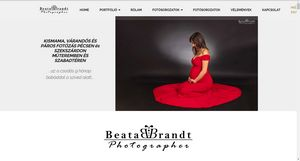
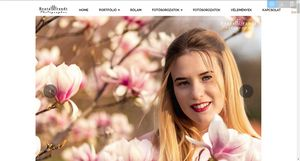
PS commit

diff --git a/index.html b/index.html
@@ -97,7 +97,7 @@ src="https://www.facebook.com/tr?id=3312447675697759&ev=PageView&noscript=1"
 
 </section>
 
-<section class="engine"><a href="https://mobirise.info/d">free web maker</a></section><section class="mbr-slider mbr-section mbr-section__container carousel slide mbr-section-nopadding mbr-after-navbar" data-ride="carousel" data-keyboard="false" data-wrap="true" data-pause="false" data-interval="5000" id="slider-5" data-rv-view="2" style="background-color: rgb(255, 255, 255);">
+<section class="engine"><a href="https://mobirise.info/s">bootstrap themes</a></section><section class="mbr-slider mbr-section mbr-section__container carousel slide mbr-section-nopadding mbr-after-navbar" data-ride="carousel" data-keyboard="false" data-wrap="true" data-pause="false" data-interval="5000" id="slider-5" data-rv-view="2" style="background-color: rgb(255, 255, 255);">
     <div class=" container boxed-slider" style="padding-top: 80px; padding-bottom: 0px;">
         <div>
             <div>
@@ -764,12 +764,12 @@ src="https://www.facebook.com/tr?id=3312447675697759&ev=PageView&noscript=1"
         <div class="mbr-cards-col col-xs-12 col-lg-4" style="padding-top: 80px; padding-bottom: 80px;">
             <div class="container">
               <div class="card cart-block">
-                  <div class="card-img"><img src="assets/images/g85a9197-husveti-anyaknapi-fotozas-pecs-motherday-photo-1.jpg" class="card-img-top"></div>
+                  <div class="card-img"><img src="assets/images/6384-karacsonyi-fotozas-pecs-christmas-photography.jpg" class="card-img-top"></div>
                   <div class="card-block">
-                    <h4 class="card-title">Húsvéti, anyáknapi fotózás</h4>
+                    <h4 class="card-title">Karácsonyi fotózás</h4>
                     
                     
-                    <div class="card-btn"><a href="husveti_csalad_gyermek_fotozas_pecs.html" class="btn btn-primary">TOVÁBBI KÉPEIM</a></div>
+                    <div class="card-btn"><a href="karacsonyi_fotozas_pecs.html" class="btn btn-primary">TOVÁBBI KÉPEIM</a></div>
                     </div>
                 </div>
             </div>
@@ -968,7 +968,7 @@ src="https://www.facebook.com/tr?id=3312447675697759&ev=PageView&noscript=1"
 
                     <form action="" method="post" data-form-title="KAPCSOLAT">
 
[1 lines of base64/hex data omitted]
+                        <input type="hidden" value="OQYVztaAK14U0MOC+8CbpONklzauN5I0RbxQmgSHQcnbIVXILR8x1TA1HxwYuNfD/lGdOqfITTclu/3EnHmntw9nufJgSYvFdgiKo4aqgAPFRCI0CoMmY+0YomhKZSsG.eiRMtiKyZkoe3zhZsqWuhv7BsPhjJm5EoCq20GLDc1EgIskMJkRZFyMfpHc9LsJSWh3HKrOMKglUyzh27UE4DnMMmQDX8+FTwwmV9c8uaaUSxsltkeWVOM32YMHQbjvk" data-form-email="true">
 
                         <div class="row row-sm-offset">
 

diff --git a/kapcsolat.html b/kapcsolat.html
@@ -92,7 +92,7 @@ src="https://www.facebook.com/tr?id=3312447675697759&ev=PageView&noscript=1"
 
 </section>
 
-<section class="engine"><a href="https://mobirise.info/y">free html website templates</a></section><section class="mbr-section form1 mbr-parallax-background mbr-after-navbar" id="form1-1x" data-rv-view="742" style="background-image: url(assets/images/mbr-1920x1318.jpg); padding-top: 120px; padding-bottom: 120px;">
+<section class="engine"><a href="https://mobirise.info/r">free bootstrap template</a></section><section class="mbr-section form1 mbr-parallax-background mbr-after-navbar" id="form1-1x" data-rv-view="742" style="background-image: url(assets/images/mbr-1920x1318.jpg); padding-top: 120px; padding-bottom: 120px;">
     <div class="mbr-overlay" style="opacity: 0.3; background-color: rgb(255, 255, 255);">
     </div>
     <div class="mbr-section mbr-section__container mbr-section__container--middle">
@@ -120,7 +120,7 @@ src="https://www.facebook.com/tr?id=3312447675697759&ev=PageView&noscript=1"
 
                     <form action="" method="post" data-form-title="KAPCSOLAT">
 
[1 lines of base64/hex data omitted]
+                        <input type="hidden" value="Fdg/svkR2OG4MY7nIhcO57gNNTns4+XnC3qog7HRsRQggz1I7NOrw+62DpZCsdlFmvnbiBEqPNKUN+PVIy0UTYmh72XV7fIkeycaT3ZlrYl7ZJ9xMJ9aF9KQJIMTFdf0.Isi5LjnVa2zzCfHZq0mBN1Cfsa2Os6K7xrUyAUXp3z2VuCaJ4ZOIBN5AJD27t1MTiKwvUJR0MNCDgo3+QJghqEi0fujKw1sBzOqFl0mgvr9OOj0p+rHL38ZZ5hfQ+2bK" data-form-email="true">
 
                         <div class="row row-sm-offset">
 

diff --git a/velemenyek.html b/velemenyek.html
@@ -93,7 +93,7 @@ src="https://www.facebook.com/tr?id=3312447675697759&ev=PageView&noscript=1"
 
 </section>
 
-<section class="engine"><a href="https://mobirise.info/w">html5 templates</a></section><section class="mbr-section mbr-parallax-background mbr-after-navbar" id="testimonials3-1v" data-rv-view="775" style="background-image: url(assets/images/mbr-1920x1318.jpg); padding-top: 120px; padding-bottom: 120px;">
+<section class="engine"><a href="https://mobirise.info/f">simple site maker</a></section><section class="mbr-section mbr-parallax-background mbr-after-navbar" id="testimonials3-1v" data-rv-view="775" style="background-image: url(assets/images/mbr-1920x1318.jpg); padding-top: 120px; padding-bottom: 120px;">
 
     <div class="mbr-overlay" style="opacity: 0.6; background-color: rgb(193, 193, 193);">
     </div>

diff --git a/fotosorozatok_beata_brandt_photography_pecs.html b/fotosorozatok_beata_brandt_photography_pecs.html
@@ -94,7 +94,7 @@ src="https://www.facebook.com/tr?id=3312447675697759&ev=PageView&noscript=1"
 
 </section>
 
-<section class="engine"><a href="https://mobirise.info/u">bootstrap html templates</a></section><section class="mbr-section mbr-section__container article mbr-after-navbar" id="header3-4x" data-rv-view="8194" style="background-color: rgb(255, 255, 255); padding-top: 20px; padding-bottom: 20px;">
+<section class="engine"><a href="https://mobirise.info/l">free web templates</a></section><section class="mbr-section mbr-section__container article mbr-after-navbar" id="header3-4x" data-rv-view="8194" style="background-color: rgb(255, 255, 255); padding-top: 20px; padding-bottom: 20px;">
     <div class="container">
         <div class="row">
             <div class="col-xs-12">

diff --git a/adatvedelem.html b/adatvedelem.html
@@ -92,7 +92,7 @@ src="https://www.facebook.com/tr?id=3312447675697759&ev=PageView&noscript=1"
 
 </section>
 
-<section class="engine"><a href="https://mobirise.info/k">how to develop own website</a></section><section class="mbr-section article mbr-section__container mbr-after-navbar" id="content1-1r" data-rv-view="763" style="background-color: rgb(255, 255, 255); padding-top: 20px; padding-bottom: 20px;">
+<section class="engine"><a href="https://mobirise.info/l">free site templates</a></section><section class="mbr-section article mbr-section__container mbr-after-navbar" id="content1-1r" data-rv-view="763" style="background-color: rgb(255, 255, 255); padding-top: 20px; padding-bottom: 20px;">
 
     <div class="container">
         <div class="row">

diff --git a/miert_engem_valassz_beata_brandt_photographer.html b/miert_engem_valassz_beata_brandt_photographer.html
@@ -92,7 +92,7 @@ src="https://www.facebook.com/tr?id=3312447675697759&ev=PageView&noscript=1"
 
 </section>
 
-<section class="engine"><a href="https://mobirise.info/s">bootstrap theme</a></section><section class="mbr-section article mbr-section__container mbr-after-navbar" id="content1-ax" data-rv-view="6714" style="background-color: rgb(255, 255, 255); padding-top: 40px; padding-bottom: 20px;">
+<section class="engine"><a href="https://mobirise.info/m">website design templates</a></section><section class="mbr-section article mbr-section__container mbr-after-navbar" id="content1-ax" data-rv-view="6714" style="background-color: rgb(255, 255, 255); padding-top: 40px; padding-bottom: 20px;">
 
     <div class="container">
         <div class="row">

diff --git a/rolam.html b/rolam.html
@@ -92,7 +92,7 @@ src="https://www.facebook.com/tr?id=3312447675697759&ev=PageView&noscript=1"
 
 </section>
 
-<section class="engine"><a href="https://mobirise.info/d">free web maker</a></section><section class="mbr-section article mbr-section__container mbr-after-navbar" id="content1-1e" data-rv-view="719" style="background-color: rgb(255, 255, 255); padding-top: 40px; padding-bottom: 20px;">
+<section class="engine"><a href="https://mobirise.info/o">portfolio web templates</a></section><section class="mbr-section article mbr-section__container mbr-after-navbar" id="content1-1e" data-rv-view="719" style="background-color: rgb(255, 255, 255); padding-top: 40px; padding-bottom: 20px;">
 
     <div class="container">
         <div class="row">

diff --git a/karacsonyi_csaladi_kismama_fotozas_pecs.html b/karacsonyi_csaladi_kismama_fotozas_pecs.html
@@ -95,7 +95,7 @@ src="https://www.facebook.com/tr?id=3312447675697759&ev=PageView&noscript=1"
 
 </section>
 
-<section class="engine"><a href="https://mobirise.info/u">bootstrap website templates</a></section><section class="mbr-section mbr-after-navbar" id="msg-box5-ae" data-rv-view="6611" style="background-color: rgb(239, 239, 239); padding-top: 80px; padding-bottom: 0px;">
+<section class="engine"><a href="https://mobirise.info/e">how to make a website for free</a></section><section class="mbr-section mbr-after-navbar" id="msg-box5-ae" data-rv-view="6611" style="background-color: rgb(239, 239, 239); padding-top: 80px; padding-bottom: 0px;">
 
     
     <div class="container">

diff --git a/termek_etelfotozas_pecs_szekszard.html b/termek_etelfotozas_pecs_szekszard.html
@@ -95,7 +95,7 @@ src="https://www.facebook.com/tr?id=3312447675697759&ev=PageView&noscript=1"
 
 </section>
 
-<section class="engine"><a href="https://mobirise.info/i">free website creation software</a></section><section class="mbr-section mbr-after-navbar" id="msg-box5-hs" data-rv-view="8709" style="background-color: rgb(239, 239, 239); padding-top: 80px; padding-bottom: 0px;">
+<section class="engine"><a href="https://mobirise.info/r">free bootstrap template</a></section><section class="mbr-section mbr-after-navbar" id="msg-box5-hs" data-rv-view="8709" style="background-color: rgb(239, 239, 239); padding-top: 80px; padding-bottom: 0px;">
 
     
     <div class="container">

diff --git a/ingatlan_enterior_epuletfotozas_pecs_propertyphoto.html b/ingatlan_enterior_epuletfotozas_pecs_propertyphoto.html
@@ -95,7 +95,7 @@ src="https://www.facebook.com/tr?id=3312447675697759&ev=PageView&noscript=1"
 
 </section>
 
-<section class="engine"><a href="https://mobirise.info/n">free simple website templates</a></section><section class="mbr-section mbr-after-navbar" id="msg-box5-ep" data-rv-view="7998" style="background-color: rgb(239, 239, 239); padding-top: 80px; padding-bottom: 0px;">
+<section class="engine"><a href="https://mobirise.info/b">create your own website</a></section><section class="mbr-section mbr-after-navbar" id="msg-box5-ep" data-rv-view="7998" style="background-color: rgb(239, 239, 239); padding-top: 80px; padding-bottom: 0px;">
 
     
     <div class="container">

diff --git a/karacsonyi_fotozas_pecs.html b/karacsonyi_fotozas_pecs.html
@@ -96,7 +96,7 @@ src="https://www.facebook.com/tr?id=3312447675697759&ev=PageView&noscript=1"
 
 </section>
 
-<section class="engine"><a href="https://mobirise.info/k">develop own website</a></section><section class="mbr-section mbr-after-navbar" id="msg-box5-54" data-rv-view="3645" style="background-color: rgb(239, 239, 239); padding-top: 80px; padding-bottom: 0px;">
+<section class="engine"><a href="https://mobirise.info/q">free responsive website templates</a></section><section class="mbr-section mbr-after-navbar" id="msg-box5-54" data-rv-view="3645" style="background-color: rgb(239, 239, 239); padding-top: 80px; padding-bottom: 0px;">
 
     
     <div class="container">

diff --git a/unnepi_fotozas.html b/unnepi_fotozas.html
@@ -95,7 +95,7 @@ src="https://www.facebook.com/tr?id=3312447675697759&ev=PageView&noscript=1"
 
 </section>
 
-<section class="engine"><a href="https://mobirise.info/k">develop your own website</a></section><section class="mbr-section mbr-after-navbar" id="msg-box5-3d" data-rv-view="1336" style="background-color: rgb(239, 239, 239); padding-top: 80px; padding-bottom: 0px;">
+<section class="engine"><a href="https://mobirise.info/o">free portfolio web templates</a></section><section class="mbr-section mbr-after-navbar" id="msg-box5-3d" data-rv-view="1336" style="background-color: rgb(239, 239, 239); padding-top: 80px; padding-bottom: 0px;">
 
     
     <div class="container">
